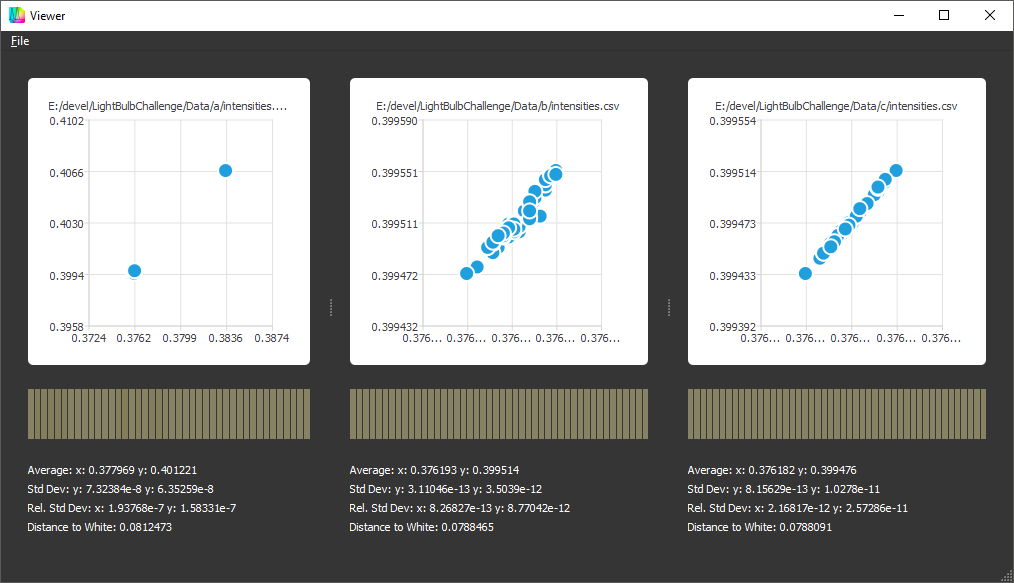
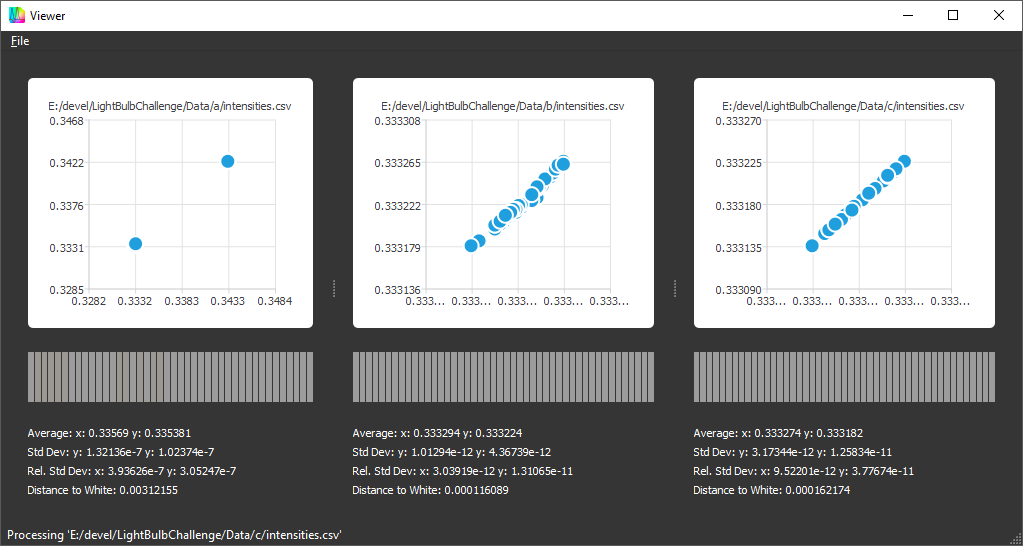
Remove the normalize data function
There is no need to normalize the Color Matching Function
Update the README.md accordinly

diff --git a/ColorAnalyser/main.cpp b/ColorAnalyser/main.cpp
@@ -117,19 +117,6 @@ auto MovingAverageFilter(const std::vector<double>& Values, int N = 10)
 	return Result;
 }
 
-void NormalizeData(std::vector<double>& Data)
-{
-	auto MinMaxPair = std::minmax_element(Data.begin(), Data.end());
-	auto Min = *MinMaxPair.first;
-	auto Max = *MinMaxPair.second;
-
-#	pragma omp parallel for
-	for (int i = 0; i < Data.size(); ++i)
-	{
-		Data[i] = (Data[i] - Min) / (Max - Min);
-	}
-}
-
 int main(int ArgC, char* ArgV[])
 {
 	CommandLineParser CmdParser(ArgC, ArgV);
@@ -187,11 +174,6 @@ int main(int ArgC, char* ArgV[])
 			}
 			Intensities.swap(FilteredIntensities);
 		}
-
-		// Normalize the Color Matching function
-		NormalizeData(CIE_X);
-		NormalizeData(CIE_Y);
-		NormalizeData(CIE_Z);
 
 		// Define the visible spectrum
 		const double SampledLambdaStart = 340;

diff --git a/README.md b/README.md
@@ -43,21 +43,21 @@ This tool can be used like the following:
 
 ### Results
     Dataset \a\:
-        Average: (x,y) = (0.377969, 0.401221)
-        Std Dev: (x,y) = (7.32384e-8, 6.35259e-8)
-        Distance to white: 0.0812473
+        Average: (x,y) = (0.33569, 0.335381)
+        Std Dev: (x,y) = (1.32136e-7, 1.02374e-7)
+        Distance to white: 0.00312155
 
     Dataset \b\:
-        Average: (x,y) = (0.376193, 0.399514)
-        Std Dev: (x,y) = (3.11046e-13, 3.5039e-12)
-        Distance to white: 0.0788465
+        Average: (x,y) = (0.333294, 0.333224)
+        Std Dev: (x,y) = (1.01294e-12, 4.36739e-12)
+        Distance to white: 0.000116089
 
     Dataset \b\:
-        Average: (x,y) = (0.376182, 0.399476)
-        Std Dev: (x,y) = (8.15629e-13, 1.0278e-11)
-        Distance to white: 0.0788091
+        Average: (x,y) = (0.333274, 0.333182)
+        Std Dev: (x,y) = (3.17344e-12, 1.25834e-11)
+        Distance to white: 0.000162174
 
-Light bulbs b and c have a very small standard deviation, which means that the color variation over time is smaller compared to light bulb a. Also, bulb b has a slightly smaller standard deviation than bulb c, which should represent a good choice for bulb technology.
+Light bulbs b and c have a very small standard deviation, which means that the color variation over time is smaller compared to light bulb a. Also, bulb b has a slightly smaller standard deviation than bulb c, which should represent a good choice for bulb technology. Moreover, in the GUI application the user can see the RGB representation of the spectrometer samples over time. It is noticeable that the bulb a has more abrupt changes in the color one can see with a naked eye.
 
 **Obs**: The *Distance to white* represents the distance from the *Average* color to the true white point in the CIE-1931 diagram `(x,y) = (1/3, 1/3)`.
 
